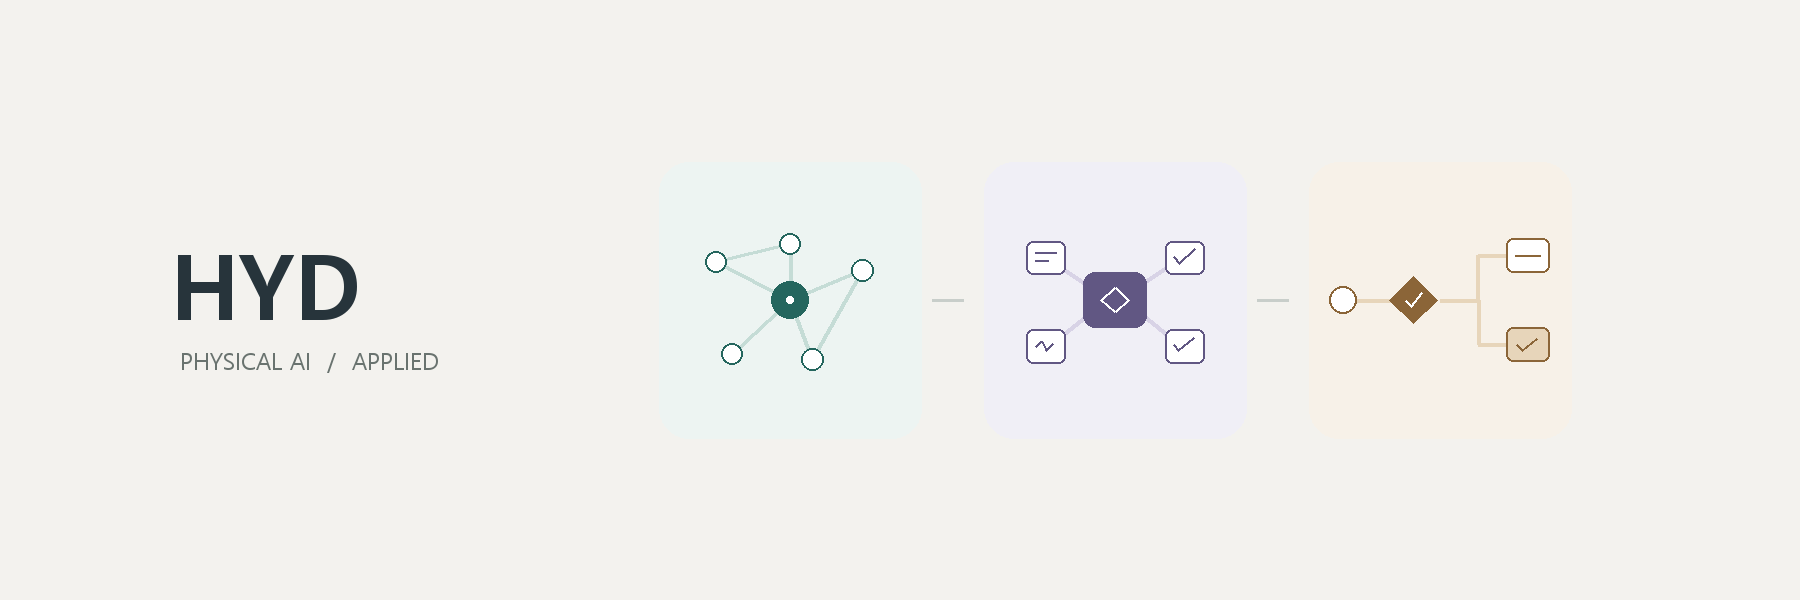
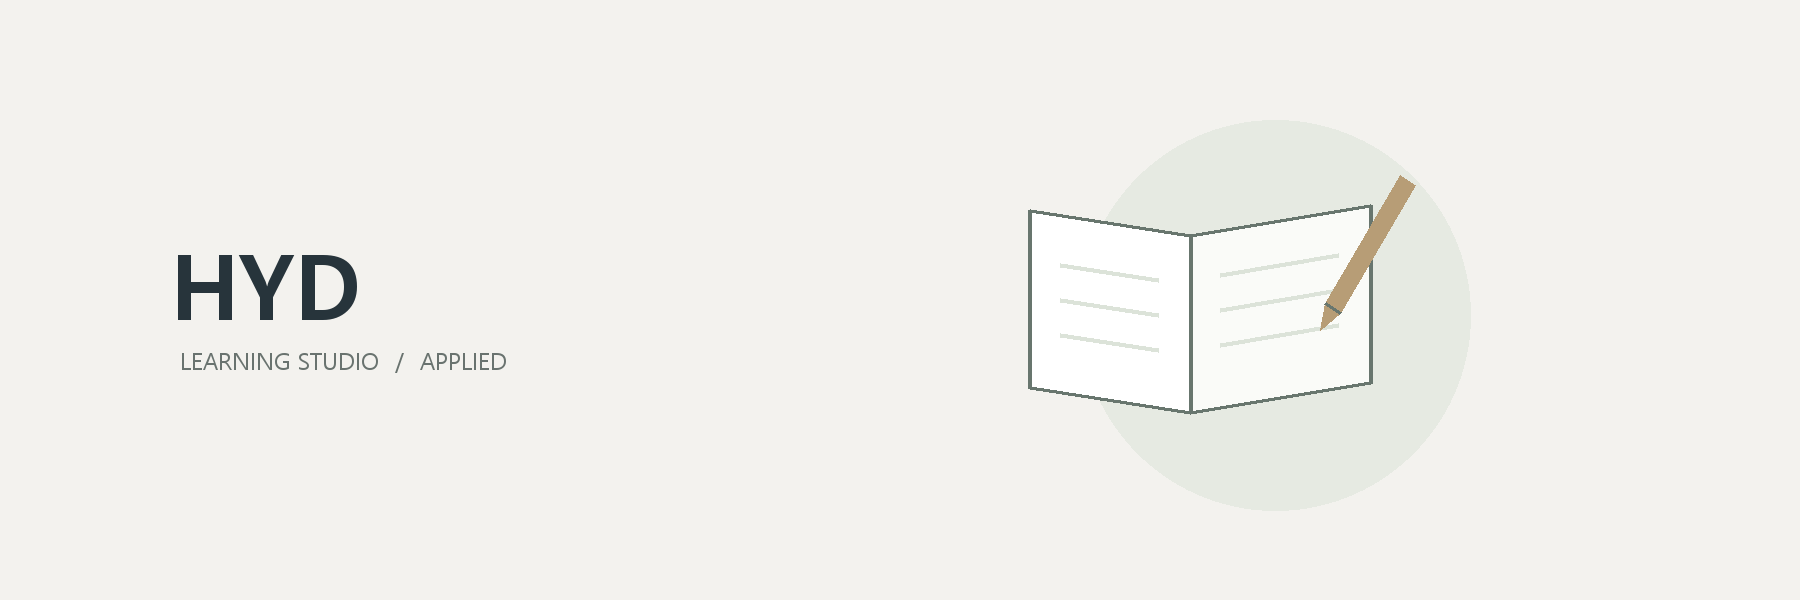
design: give the learning portal a distinct educational home cover

diff --git a/제작용/notion-design/build.py b/제작용/notion-design/build.py
@@ -64,19 +64,35 @@ def cover(course,n,kind,subtitle):
 def home(course):
  im=Image.new('RGB',(1800,600),'#F3F2EE');d=ImageDraw.Draw(im)
  d.text((170,222),'HYD',font=font(90,True),fill='#27343B')
- d.text((180,344),'PHYSICAL AI  /  '+course.upper(),font=font(23),fill='#69736F')
- for i,kind in enumerate(PALETTES):
-  x=790+i*325;bg,ink,soft,*_=PALETTES[kind]
-  d.rounded_rectangle((x-131,162,x+131,438),30,fill=bg)
-  motif(d,kind,x,300,.59)
-  if i<2:d.line((x+142,300,x+173,300),fill='#C8CECA',width=3)
+ d.text((180,344),'LEARNING STUDIO  /  '+course.upper(),font=font(23),fill='#69736F')
+ # Home uses a distinct educational motif; never repeat subject-card symbols.
+ ink='#68766E';soft='#DCE3D9'
+ d.ellipse((1080,120,1470,510),fill='#E6EAE2')
+ d.polygon([(1030,210),(1190,235),(1190,413),(1030,388)],fill='white')
+ d.polygon([(1190,235),(1370,205),(1370,383),(1190,413)],fill='#FAFBF8')
+ d.line([(1030,210),(1190,235),(1370,205),(1370,383),(1190,413),(1030,388),(1030,210)],fill=ink,width=4)
+ d.line((1190,235,1190,413),fill=ink,width=4)
+ for y in [265,300,335]:
+  d.line((1060,y,1158,y+15),fill=soft,width=5)
+  d.line((1220,y+10,1338,y-10),fill=soft,width=5)
+ d.polygon([(1400,175),(1415,185),(1340,313),(1320,330),(1325,303)],fill='#B79D76')
+ d.line((1325,303,1340,313),fill=ink,width=3)
  im.save(OUT/f'home-{course}.png',optimize=True)
+
+def home_icon():
+ im=Image.new('RGB',(480,480),'#F3F2EE');d=ImageDraw.Draw(im)
+ d.rounded_rectangle((112,85,368,395),radius=30,fill='#FFFFFF',outline='#68766E',width=10)
+ d.line((165,87,165,393),fill='#68766E',width=8)
+ d.rectangle((275,90,315,190),fill='#C7D2C0')
+ for y in [242,282,322]:d.line((205,y,320,y),fill='#CAD2CA',width=9)
+ im.save(OUT/'icon-home.png',optimize=True)
 
 integrated=[('knowledge','데이터에서 판단과 조치까지'),('knowledge','클래스 · 관계 · 스키마'),('knowledge','안전 조건 · 성과 비교'),('knowledge','문서에서 신뢰할 근거로'),('agent','근거를 읽고 작업하기'),('agent','스킬 · MCP · 도구 연결'),('agent','사람의 승인 · 요구사항'),('agent','변경 · 검증 · 완성'),('process','역할 · 분기 · 업무 흐름'),('process','정비에서 구매까지'),('process','내 주제로 완성하기')]
 applied=[('knowledge','데이터에서 판단과 조치까지'),('knowledge','지식 구조 · 조치 조건'),('knowledge','성과 비교 · 근거 추출'),('agent','업무 수행 · 도구 활용'),('agent','협업 · 명세 · 검증'),('process','설비 대응 흐름 완성'),('process','정비 · 구매 · 실행 검증'),('process','내 주제에 응용하기')]
 for course,rows in [('integrated',integrated),('applied',applied)]:
  home(course)
  for n,(kind,title) in enumerate(rows,1):cover(course,n,kind,title)
+home_icon()
 for kind,(bg,*_) in PALETTES.items():
  im=Image.new('RGB',(480,480),bg);d=ImageDraw.Draw(im);motif(d,kind,240,240,1.05);im.save(OUT/f'icon-{kind}.png',optimize=True)
 # Contact sheet for visual review, not a deployable asset.
